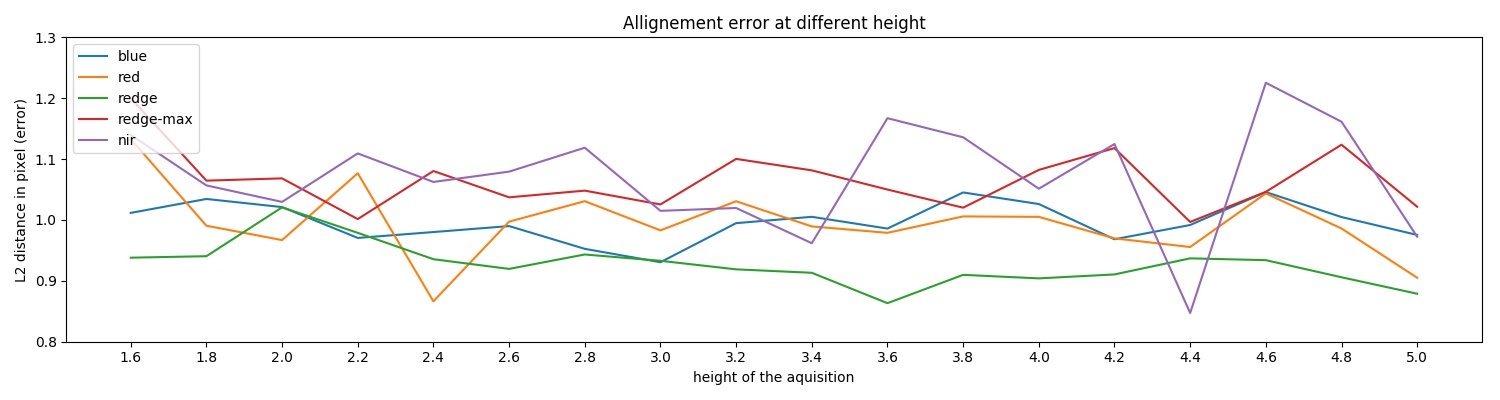
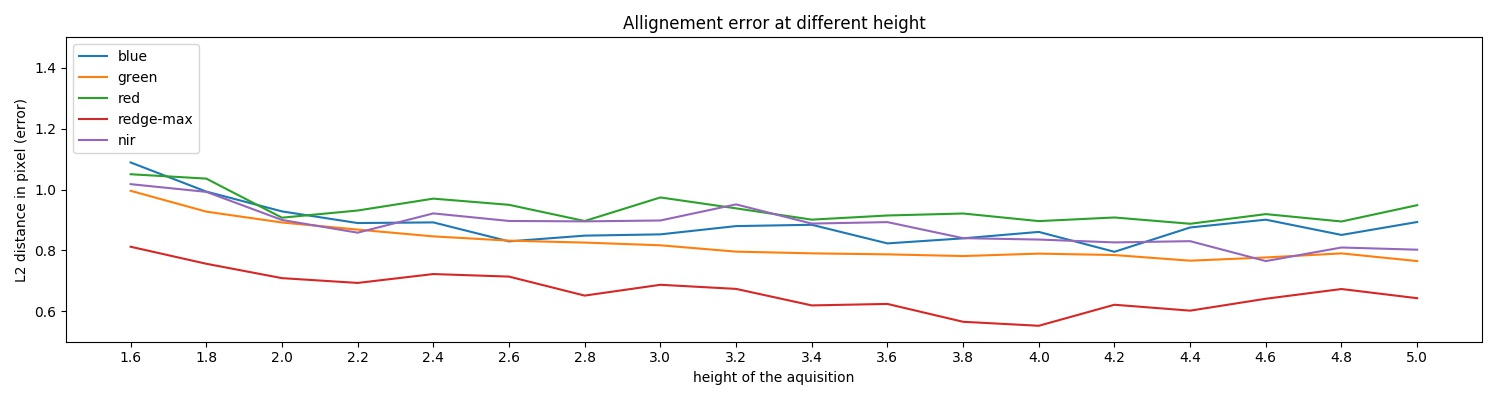
update corresponding FAST results

diff --git a/9.prespective-plot.py b/9.prespective-plot.py
@@ -20,13 +20,17 @@ data = np.array(data)
     
 plt.figure(figsize=(15,4))
 axes = plt.gca()
-axes.set_ylim([0.8,1.3])
+axes.set_ylim([0.5,1.5])
 
-for i in range(len(bands)):
+bands = all_bands.copy()
+bands.remove(710) # the reference
+
+for i,b in enumerate(bands):
     l2 = data[i::5,1]
     std = data[i::5,2]/2
     x = np.arange(len(l2))
-    plt.plot(x, l2, label=bands_text[i])
+    c = all_bands.index(b)
+    plt.plot(x, l2, label=bands_text[c])
     #plt.fill_between(x, l2-std, l2+std, alpha=.2)
 pass
     

diff --git a/9.affine-plot.py b/9.affine-plot.py
@@ -22,11 +22,14 @@ plt.figure(figsize=(15,4))
 axes = plt.gca()
 axes.set_ylim([0,5])
 
-for i in range(len(bands)):
+bands = all_bands.copy()
+bands.remove(570) # the reference
+
+for b,i in enumerate(bands):
     l2 = data[i::5,1]
     std = data[i::5,2]/2
     x = np.arange(len(l2))
-    plt.plot(x, l2, label=bands_text[i])
+    plt.plot(x, l2, label=bands_text[all_bands.index(b)])
     #plt.fill_between(x, l2-std, l2+std, alpha=.2)
 pass
     

diff --git a/src/data.py b/src/data.py
@@ -12,8 +12,7 @@ height = np.array([
 ])
 
 # excluded green (reference)
-bands_text = ['blue', 'red', 'redge', 'redge-max', 'nir']
-bands = [450, 645, 710, 730, 850]
+bands_text = ['blue', 'green', 'red', 'redge', 'redge-max', 'nir']
 all_bands = [450, 570, 675, 710, 730, 850]
 
 all_methods = ['ORB', 'AKAZE', 'BRISK', 'SURF', 'FAST']
